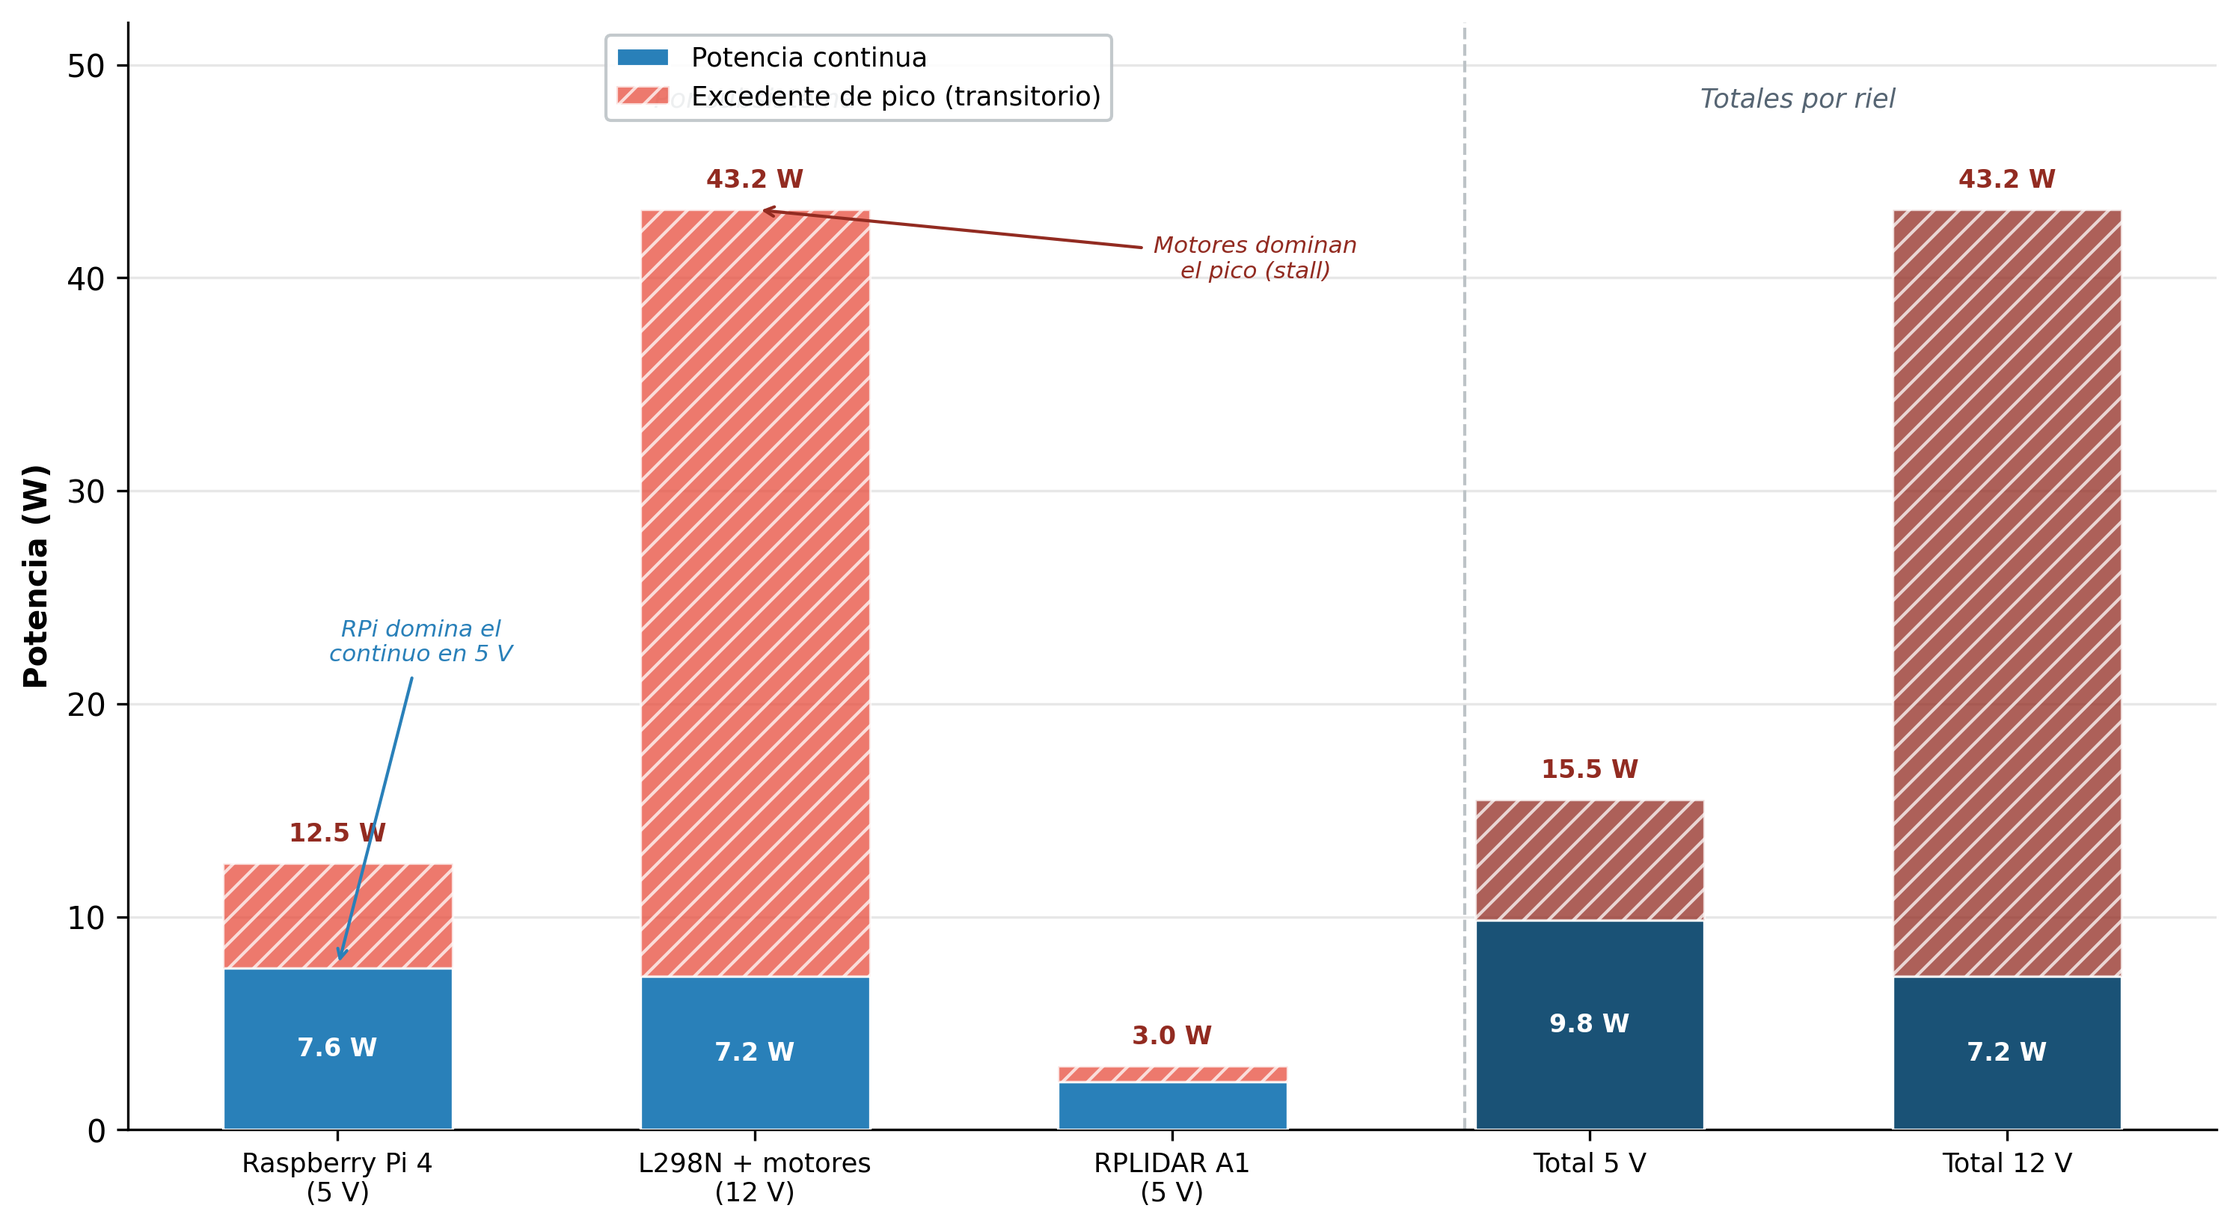
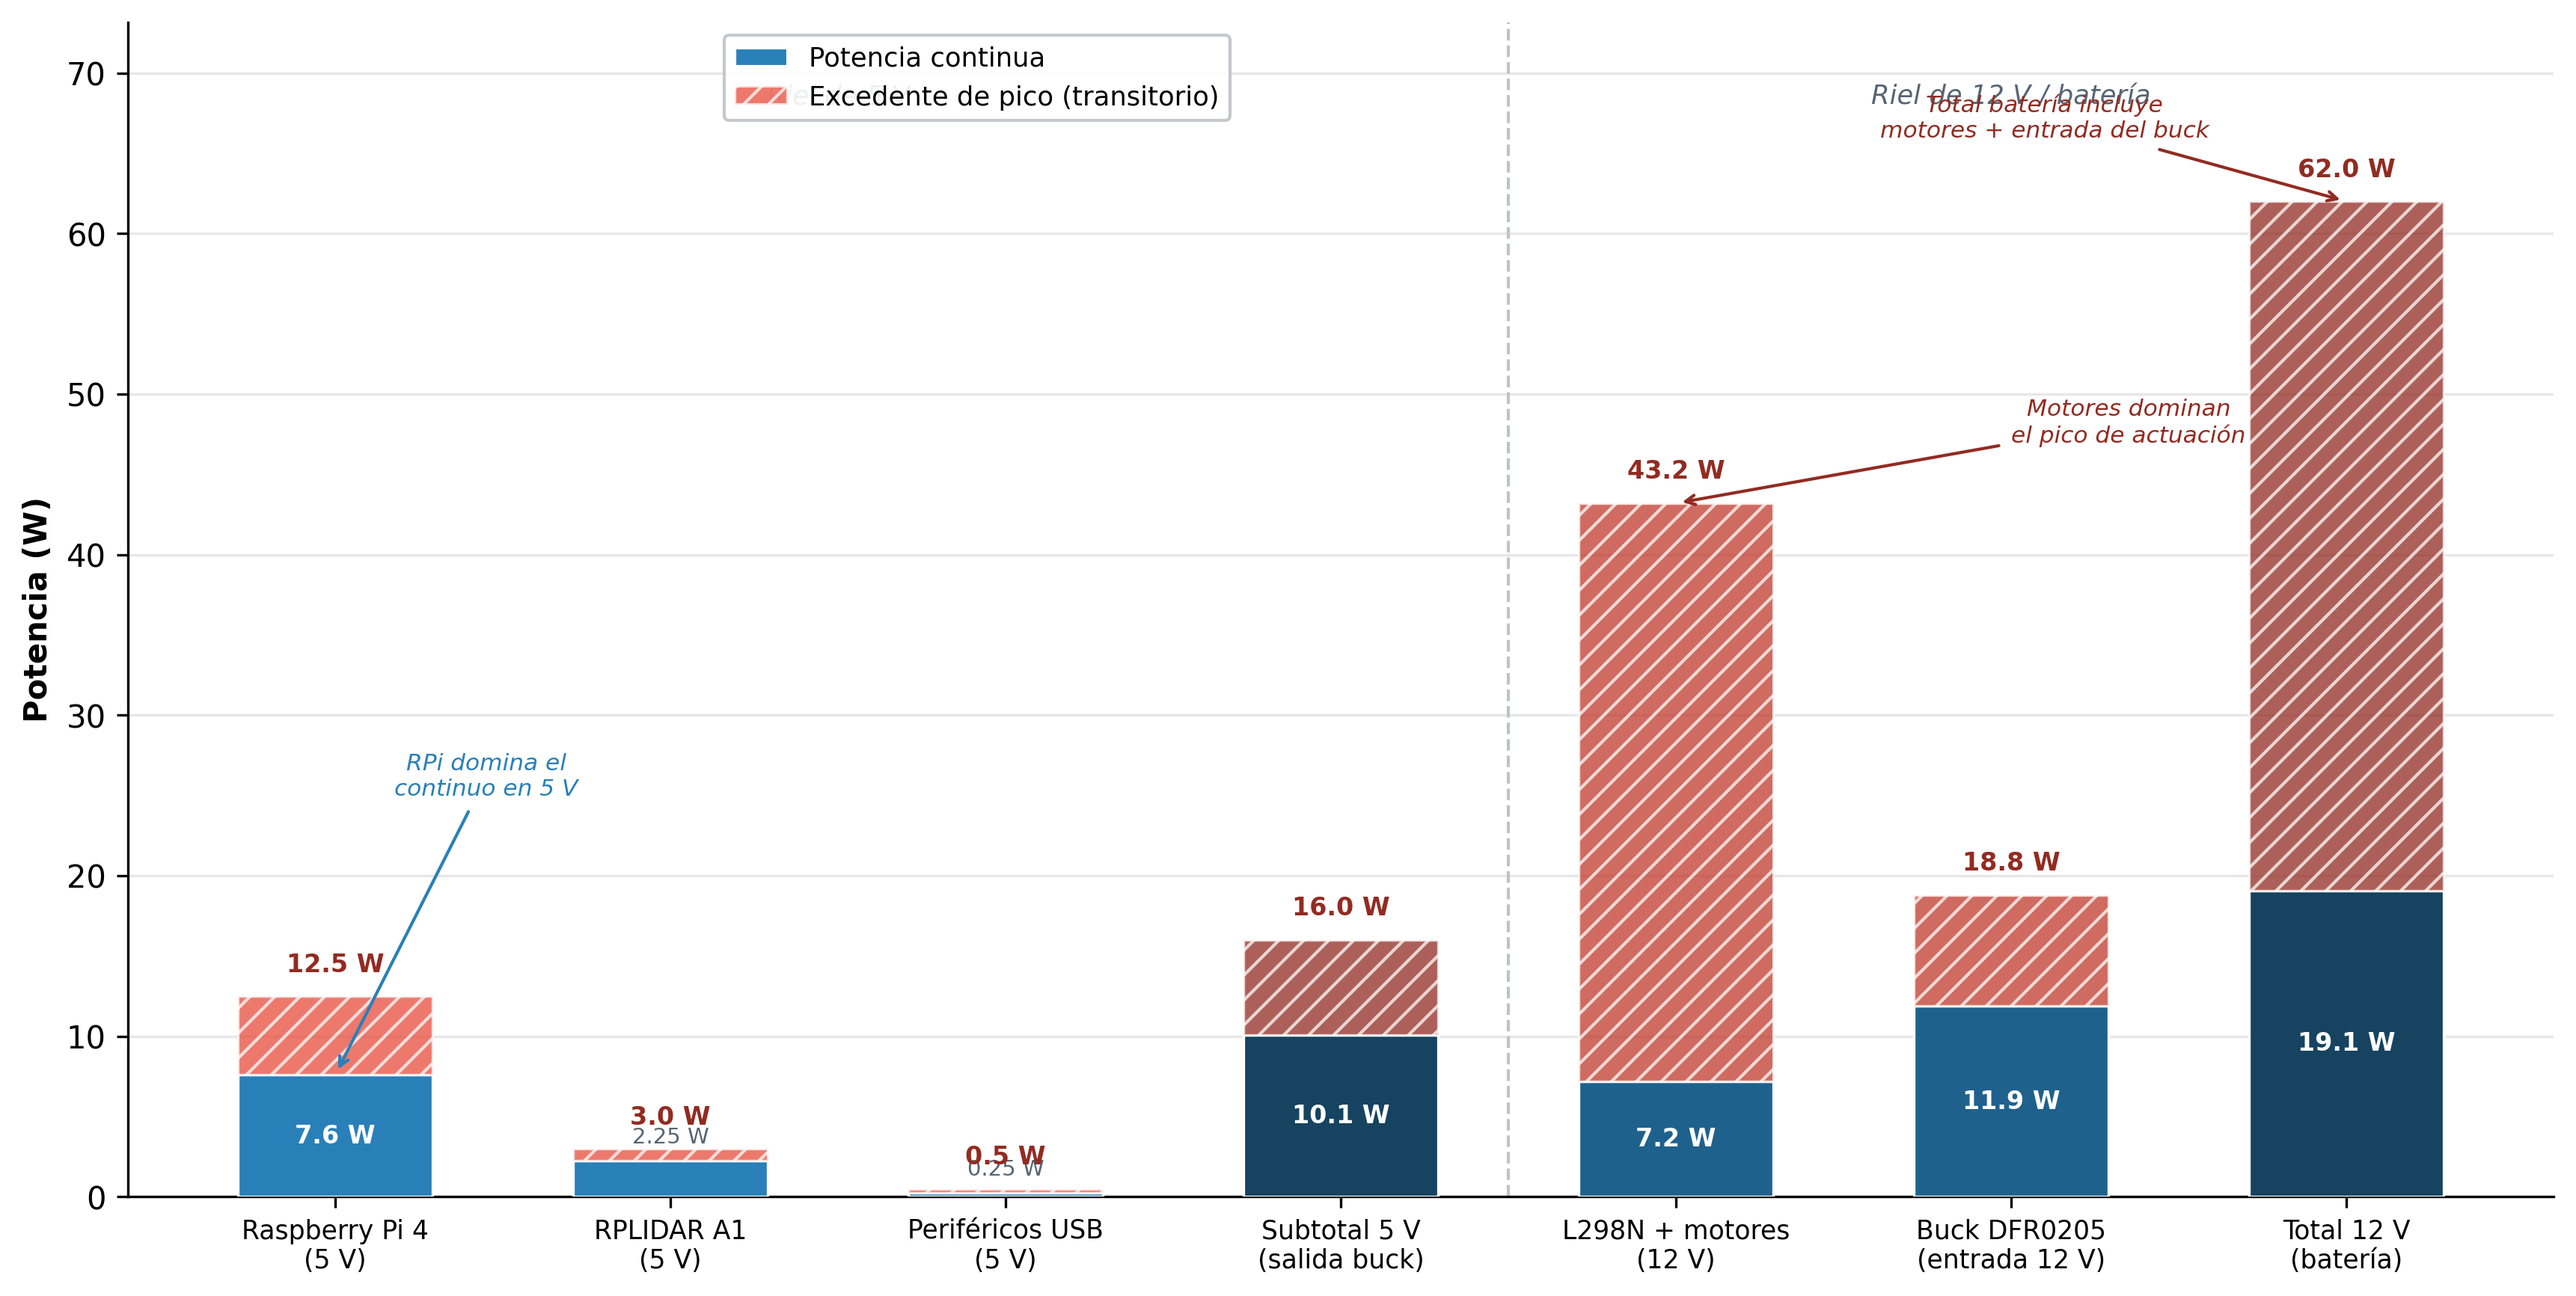
nueva gen_powewr_budget

diff --git a/2.Texto/Imag/gen_power_budget.py b/2.Texto/Imag/gen_power_budget.py
@@ -7,9 +7,9 @@ from pathlib import Path
 import sys
 
 try:
-        script_path = Path(__file__).resolve()
+    script_path = Path(__file__).resolve()
 except NameError:
-        script_path = Path(sys.argv[0]).resolve() if sys.argv and sys.argv[0] else Path.cwd()
+    script_path = Path(sys.argv[0]).resolve() if sys.argv and sys.argv[0] else Path.cwd()
 
 parent_folder = script_path.parent
 print(parent_folder)
@@ -17,86 +17,113 @@ output_file_name = "fig_power_budget.png"
 output_path_file = parent_folder / output_file_name
 
 # ─── Data from tab:power_budget_filled ───────────────────────────────────────
-subsystems = ['Raspberry Pi 4\n(5 V)', 'L298N + motores\n(12 V)', 'RPLIDAR A1\n(5 V)', 'Total 5 V', 'Total 12 V']
-p_cont     = [7.6,                      7.2,                       2.25,                9.85,       7.2]
-p_pico     = [12.5,                     43.2,                       3.0,                15.5,      43.2]
-# The "extra" peak above continuous
-p_extra    = [p - c for p, c in zip(p_pico, p_cont)]
+# Valores alineados con la tabla del capítulo:
+# - Riel 5 V: Raspberry Pi 4 + RPLIDAR A1 + periféricos USB + subtotal de salida.
+# - Riel 12 V: L298N + motores + entrada del buck + total visto desde batería.
+subsystems = [
+    'Raspberry Pi 4\n(5 V)',
+    'RPLIDAR A1\n(5 V)',
+    'Periféricos USB\n(5 V)',
+    'Subtotal 5 V\n(salida buck)',
+    'L298N + motores\n(12 V)',
+    'Buck DFR0205\n(entrada 12 V)',
+    'Total 12 V\n(batería)',
+]
+
+p_cont = [7.60, 2.25, 0.25, 10.10, 7.20, 11.88, 19.08]
+p_pico = [12.5, 3.0, 0.5, 16.0, 43.2, 18.8, 62.0]
+p_extra = [p - c for p, c in zip(p_pico, p_cont)]
 
 x = np.arange(len(subsystems))
-width = 0.55
+width = 0.58
 
 # ─── Figure ──────────────────────────────────────────────────────────────────
-fig, ax = plt.subplots(figsize=(10, 5.5), dpi=300)
+fig, ax = plt.subplots(figsize=(11.5, 5.8), dpi=300)
 fig.patch.set_facecolor('white')
 
 # Colors
-COL_CONT  = '#2980B9'
-COL_EXTRA = '#E74C3C'
-COL_TOTAL_CONT = '#1A5276'
+COL_5V_CONT = '#2980B9'
+COL_5V_EXTRA = '#E74C3C'
+COL_12V_CONT = '#1F618D'
+COL_12V_EXTRA = '#C0392B'
+COL_TOTAL_CONT = '#154360'
 COL_TOTAL_EXTRA = '#922B21'
 
-colors_cont  = [COL_CONT, COL_CONT, COL_CONT, COL_TOTAL_CONT, COL_TOTAL_CONT]
-colors_extra = [COL_EXTRA, COL_EXTRA, COL_EXTRA, COL_TOTAL_EXTRA, COL_TOTAL_EXTRA]
+colors_cont = [
+    COL_5V_CONT, COL_5V_CONT, COL_5V_CONT, COL_TOTAL_CONT,
+    COL_12V_CONT, COL_12V_CONT, COL_TOTAL_CONT,
+]
+colors_extra = [
+    COL_5V_EXTRA, COL_5V_EXTRA, COL_5V_EXTRA, COL_TOTAL_EXTRA,
+    COL_12V_EXTRA, COL_12V_EXTRA, COL_TOTAL_EXTRA,
+]
 
 # Stacked bars
-bars_cont = ax.bar(x, p_cont, width, label='Potencia continua',
-                   color=colors_cont, edgecolor='white', linewidth=0.8, zorder=3)
-bars_extra = ax.bar(x, p_extra, width, bottom=p_cont, label='Excedente de pico',
-                    color=colors_extra, alpha=0.75, edgecolor='white', linewidth=0.8,
-                    zorder=3, hatch='///')
+ax.bar(x, p_cont, width, label='Potencia continua',
+       color=colors_cont, edgecolor='white', linewidth=0.8, zorder=3)
+ax.bar(x, p_extra, width, bottom=p_cont, label='Excedente de pico',
+       color=colors_extra, alpha=0.75, edgecolor='white', linewidth=0.8,
+       zorder=3, hatch='///')
 
 # ─── Value labels ────────────────────────────────────────────────────────────
-for i, (c, p, e) in enumerate(zip(p_cont, p_pico, p_extra)):
-    # Continuous value (inside bar)
-    if c > 3:
-        ax.text(i, c/2, f'{c:.1f} W', ha='center', va='center',
+for i, (c, p) in enumerate(zip(p_cont, p_pico)):
+    if c >= 3:
+        ax.text(i, c / 2, f'{c:.1f} W', ha='center', va='center',
                 fontsize=8, fontweight='bold', color='white', fontfamily='sans-serif')
-    # Peak value (on top)
-    ax.text(i, p + 0.8, f'{p:.1f} W', ha='center', va='bottom',
+    elif c > 0:
+        ax.text(i, c + 0.8, f'{c:.2f} W', ha='center', va='bottom',
+                fontsize=7, color='#566573', fontfamily='sans-serif')
+
+    ax.text(i, p + 1.2, f'{p:.1f} W', ha='center', va='bottom',
             fontsize=8, fontweight='bold', color='#922B21', fontfamily='sans-serif')
 
-# ─── Separator between individual and totals ─────────────────────────────────
-ax.axvline(x=2.7, color='#BDC3C7', lw=1.0, ls='--', zorder=1)
-ax.text(1.0, 48.0, 'Por subsistema', ha='center', fontsize=8.5, color='#566573',
-        fontfamily='sans-serif', style='italic')
-ax.text(3.5, 48.0, 'Totales por riel', ha='center', fontsize=8.5, color='#566573',
-        fontfamily='sans-serif', style='italic')
+# ─── Separator between rails ─────────────────────────────────────────────────
+ymax = max(p_pico) * 1.18
+ax.axvline(x=3.5, color='#BDC3C7', lw=1.0, ls='--', zorder=1)
+ax.text(1.5, ymax * 0.93, 'Riel de 5 V', ha='center', fontsize=8.5,
+        color='#566573', fontfamily='sans-serif', style='italic')
+ax.text(5.0, ymax * 0.93, 'Riel de 12 V / batería', ha='center', fontsize=8.5,
+        color='#566573', fontfamily='sans-serif', style='italic')
 
 # ─── Axes formatting ─────────────────────────────────────────────────────────
 ax.set_xticks(x)
-ax.set_xticklabels(subsystems, fontsize=8.5, fontfamily='sans-serif')
+ax.set_xticklabels(subsystems, fontsize=8.3, fontfamily='sans-serif')
 ax.set_ylabel('Potencia (W)', fontsize=10, fontfamily='sans-serif', fontweight='bold')
-ax.set_ylim(0, 52)
+ax.set_ylim(0, ymax)
 ax.yaxis.grid(True, alpha=0.3, zorder=0)
 ax.set_axisbelow(True)
 ax.spines['top'].set_visible(False)
 ax.spines['right'].set_visible(False)
 
-# ─── Legend ───────────────────────────────────────────────────────────────────
-
+# ─── Legend ──────────────────────────────────────────────────────────────────
 legend_elements = [
-    Patch(facecolor=COL_CONT, edgecolor='white', label='Potencia continua'),
-    Patch(facecolor=COL_EXTRA, edgecolor='white', alpha=0.75, hatch='///',
+    Patch(facecolor=COL_5V_CONT, edgecolor='white', label='Potencia continua'),
+    Patch(facecolor=COL_5V_EXTRA, edgecolor='white', alpha=0.75, hatch='///',
           label='Excedente de pico (transitorio)'),
 ]
 ax.legend(handles=legend_elements, loc='upper center', fontsize=8.5,
           framealpha=0.9, edgecolor='#BDC3C7', bbox_to_anchor=(0.35, 1.0))
 
-# ─── Annotation: motors dominate peak ────────────────────────────────────────
-ax.annotate('Motores dominan\nel pico (stall)',
-            xy=(1, 43.2), xytext=(2.2, 40),
+# ─── Annotations ─────────────────────────────────────────────────────────────
+ax.annotate('Motores dominan\nel pico de actuación',
+            xy=(4, 43.2), xytext=(5.35, 47),
             fontsize=7.5, color='#922B21', fontfamily='sans-serif',
             fontstyle='italic', ha='center',
             arrowprops=dict(arrowstyle='->', color='#922B21', lw=1.0))
 
 ax.annotate('RPi domina el\ncontinuo en 5 V',
-            xy=(0, 7.6), xytext=(0.2, 22),
-            fontsize=7.5, color=COL_CONT, fontfamily='sans-serif',
+            xy=(0, 7.6), xytext=(0.45, 25),
+            fontsize=7.5, color=COL_5V_CONT, fontfamily='sans-serif',
             fontstyle='italic', ha='center',
-            arrowprops=dict(arrowstyle='->', color=COL_CONT, lw=1.0))
+            arrowprops=dict(arrowstyle='->', color=COL_5V_CONT, lw=1.0))
+
+ax.annotate('Total batería incluye\nmotores + entrada del buck',
+            xy=(6, 62.0), xytext=(5.1, 66),
+            fontsize=7.5, color='#922B21', fontfamily='sans-serif',
+            fontstyle='italic', ha='center',
+            arrowprops=dict(arrowstyle='->', color='#922B21', lw=1.0))
 
 plt.tight_layout(pad=0.8)
 fig.savefig(output_path_file,
-                dpi=300, bbox_inches='tight', facecolor='white', pad_inches=0.1)
+            dpi=300, bbox_inches='tight', facecolor='white', pad_inches=0.1)
 print("OK — Gráfico de presupuesto de potencia generado.")
